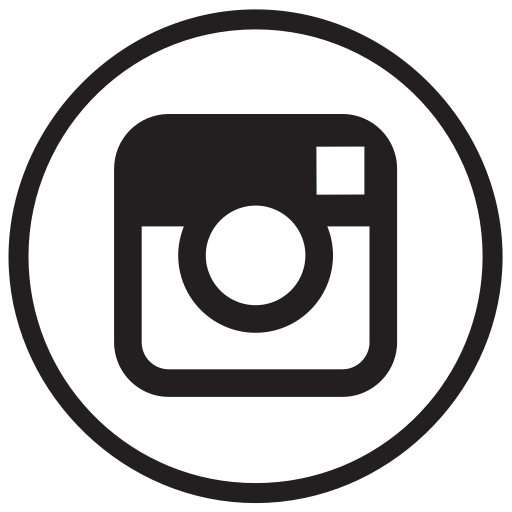
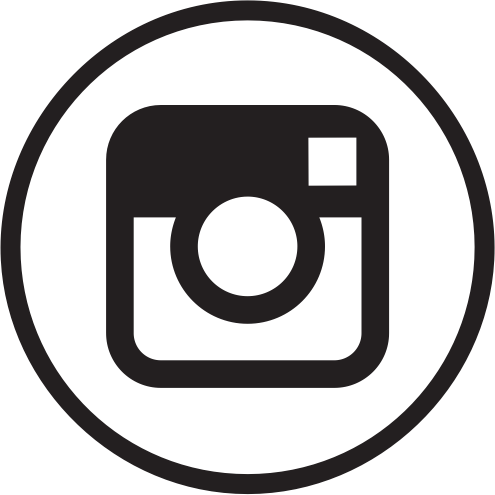
major navigation and styling update

diff --git a/pros/index.html b/pros/index.html
@@ -11,7 +11,7 @@
   <title>Professional As Always</title>
 </head>
 <body class="white-font">
-  <header class="column align-items-center round-1 px-md-05" style="background: rgba(0, 0, 0, 0.25)">
+  <header class="column align-items-center round-1 px-md-05" style="background: rgba(0, 0, 0, 0.5)">
     <nav class="column mobile align-items-center py-05 w-100 hidden-lg-up hide">
       <a href="../index.html" class="button c-light-blue"><h5>Home</h5></a>
       <a href="#" class="button c-light-blue"><h5>Services</h5></a>
@@ -38,16 +38,16 @@
   <section>
     <div class="social space-around mt-05 py-075" style="background: rgba(255, 255, 255, 0.75); border-radius: 1em 1em 0 0;">
       <a href="">
-        <img style="width: 2.6em;" src="../images/facebook.png" />
+        <img style="width: 2.4em;" src="../images/facebook.png" />
       </a>
       <a href="">
-        <img style="width: 2.6em;" src="../images/instagram-round.png" />
+        <img style="width: 2.4em;" src="../images/instagram-round.png" />
       </a>
       <a href="">
-        <img style="width: 2.6em;" src="../images/linkedin-dark.png" />
+        <img style="width: 2.4em;" src="../images/linkedin-dark.png" />
       </a>
       <a href="">
-        <img style="width: 2.6em;" src="../images/twitter-round.png" />
+        <img style="width: 2.4em;" src="../images/twitter-round.png" />
       </a>
     </div>
   </section>

diff --git a/about-us/index.html b/about-us/index.html
@@ -11,7 +11,7 @@
   <title>Professional As Always</title>
 </head>
 <body class="white-font">
-  <header class="column align-items-center round-1 px-md-05" style="background: rgba(0, 0, 0, 0.25)">
+  <header class="column align-items-center round-1 px-md-05" style="background: rgba(0, 0, 0, 0.5)">
     <nav class="column mobile align-items-center py-05 w-100 hidden-lg-up hide">
       <a href="../index.html" class="button c-light-blue"><h5>Home</h5></a>
       <a href="#" class="button c-light-blue"><h5>Services</h5></a>
@@ -38,16 +38,16 @@
   <section>
     <div class="social space-around mt-05 py-075" style="background: rgba(255, 255, 255, 0.75); border-radius: 1em 1em 0 0;">
       <a href="">
-        <img style="width: 2.6em;" src="../images/facebook.png" />
+        <img style="width: 2.4em;" src="../images/facebook.png" />
       </a>
       <a href="">
-        <img style="width: 2.6em;" src="../images/instagram-round.png" />
+        <img style="width: 2.4em;" src="../images/instagram-round.png" />
       </a>
       <a href="">
-        <img style="width: 2.6em;" src="../images/linkedin-dark.png" />
+        <img style="width: 2.4em;" src="../images/linkedin-dark.png" />
       </a>
       <a href="">
-        <img style="width: 2.6em;" src="../images/twitter-round.png" />
+        <img style="width: 2.4em;" src="../images/twitter-round.png" />
       </a>
     </div>
     </div>

diff --git a/index.html b/index.html
@@ -11,7 +11,7 @@
   <title>Professional As Always</title>
 </head>
 <body class="white-font">
-  <header class="column align-items-center round-1 px-md-05" style="background: rgba(0, 0, 0, 0.25)">
+  <header class="column align-items-center round-1 px-md-05" style="background: rgba(0, 0, 0, 0.5)">
     <nav class="column mobile align-items-center py-05 w-100 hidden-lg-up hide">
       <a href="" class="button c-light-blue"><h5>Home</h5></a>
       <a href="#" class="button c-light-blue"><h5>Services</h5></a>
@@ -38,16 +38,16 @@
   <section>
     <div class="social space-around mt-05 py-075" style="background: rgba(255, 255, 255, 0.75); border-radius: 1em 1em 0 0;">
       <a href="">
-        <img style="width: 2.6em;" src="images/facebook.png" />
+        <img style="width: 2.4em;" src="images/facebook.png" />
       </a>
       <a href="">
-        <img style="width: 2.6em;" src="images/instagram-round.png" />
+        <img style="width: 2.4em;" src="images/instagram-round.png" />
       </a>
       <a href="">
-        <img style="width: 2.6em;" src="images/linkedin-dark.png" />
+        <img style="width: 2.4em;" src="images/linkedin-dark.png" />
       </a>
       <a href="">
-        <img style="width: 2.6em;" src="images/twitter-round.png" />
+        <img style="width: 2.4em;" src="images/twitter-round.png" />
       </a>
     </div>
   </section>

diff --git a/styles/scss/styles.scss b/styles/scss/styles.scss
@@ -35,13 +35,12 @@ nav.mobile {
   transition: 0.5s all;
 }
 
-// .nav-handle {
-//   transition: 0.5s ease-out;
-//   &.hide {
-//     margin-top: -30%;
-//     transition: 0.5s ease-in;
-//   }
-// }
+.social {
+  line-height: 0;
+  img {
+    width: 2.4em;
+  }
+}
 
 footer {
   padding: 1em 0 0.5em;

diff --git a/styles/css/styles.css b/styles/css/styles.css
@@ -31,5 +31,10 @@ nav.mobile {
   border-radius: 0 0 1em 1em;
   transition: 0.5s all; }
 
+.social {
+  line-height: 0; }
+  .social img {
+    width: 2.4em; }
+
 footer {
   padding: 1em 0 0.5em; }
